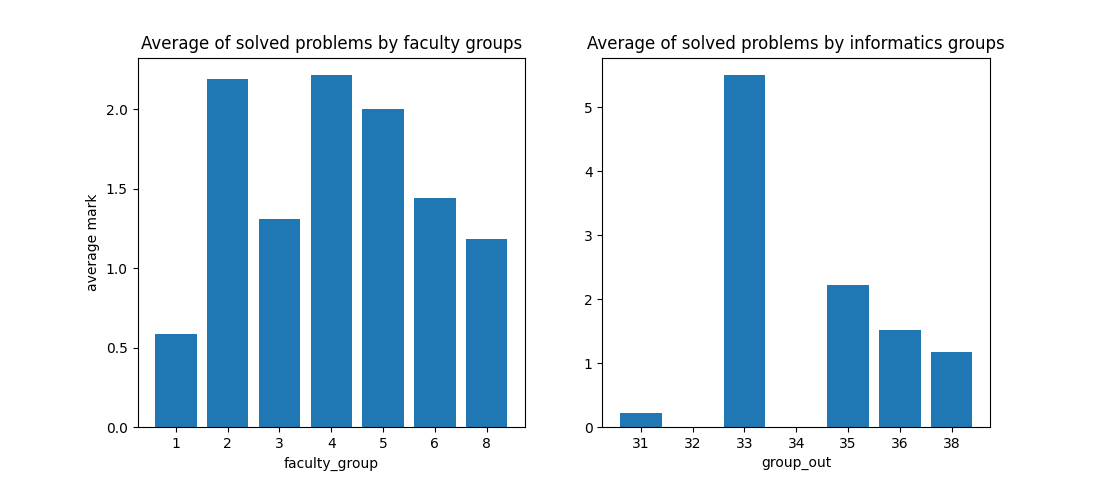
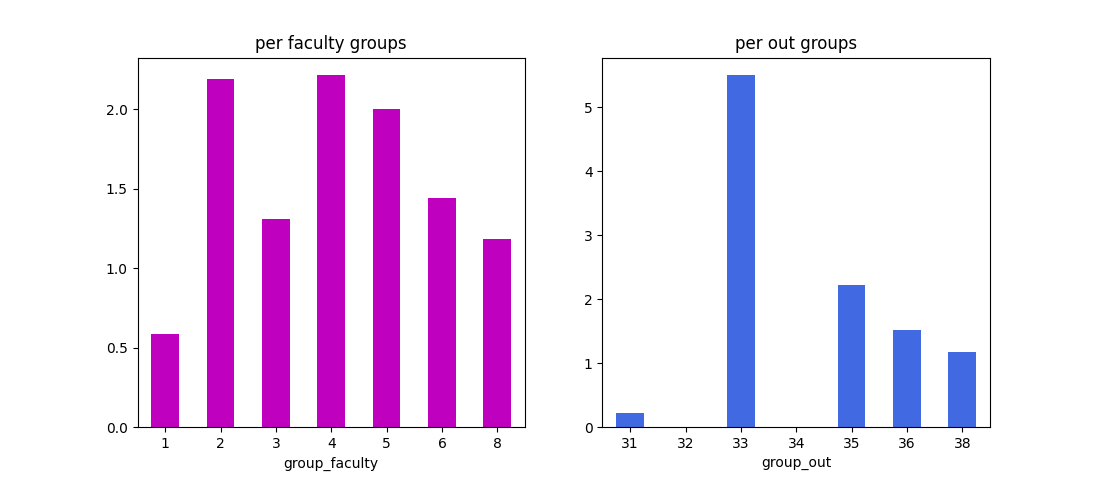
fixed issue

diff --git a/lab_2/ep_3/contest.py b/lab_2/ep_3/contest.py
@@ -8,11 +8,6 @@ df1.fillna(0, inplace=True)
 df2.dropna(inplace=True)
 
 newdata = df1.merge(df2, how='inner', left_on="User", right_on="login")
-faculty_groups = newdata.groupby(['group_faculty']).Solved.mean().index
-average_per_faculty_groups = newdata.groupby(['group_faculty']).Solved.mean().values
-
-groups_out = newdata.groupby(['group_out']).Solved.mean().index
-average_per_groups_out = newdata.groupby(['group_out']).Solved.mean().values
 
 fig, axs = plt.subplots(1, 2)
 axs[0].set_title('Average of solved problems by faculty groups')
@@ -20,12 +15,10 @@ axs[1].set_title('Average of solved problems by informatics groups')
 fig.set_figwidth(11)
 plt.subplots_adjust(wspace=0.2)
 
-axs[0].bar(list(map(str, faculty_groups)), average_per_faculty_groups)
-axs[0].set_xlabel('faculty_group')
-axs[0].set_ylabel('average mark')
-
-axs[1].bar(list(map(str, groups_out)), average_per_groups_out)
-axs[1].set_xlabel('group_out')
+newdata[['group_faculty', 'Solved']].groupby('group_faculty').mean().plot(kind='bar', color='m', rot=0, ax=axs[0],
+                                                                          title='per faculty groups', legend=False)
+newdata[['group_out', 'Solved']].groupby('group_out').mean().plot(kind='bar', color='royalblue', rot=0, ax=axs[1],
+                                                                  title='per out groups', legend=False)
 
 plt.savefig('average_marks.png')
 print("Номера факультетских групп: ", set(newdata.loc[(df1.H > 10) | (df1.G > 10)].group_faculty))
